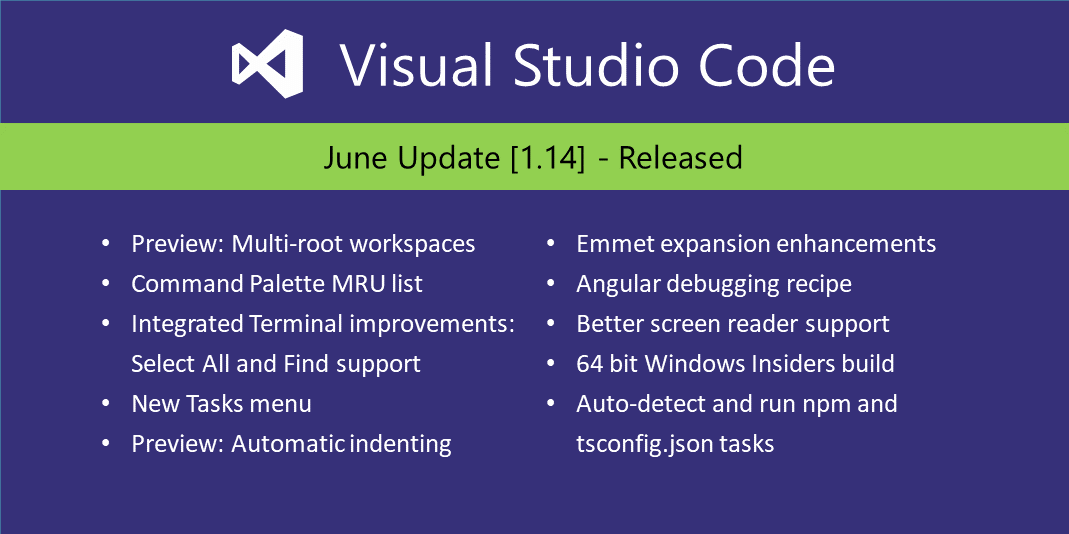
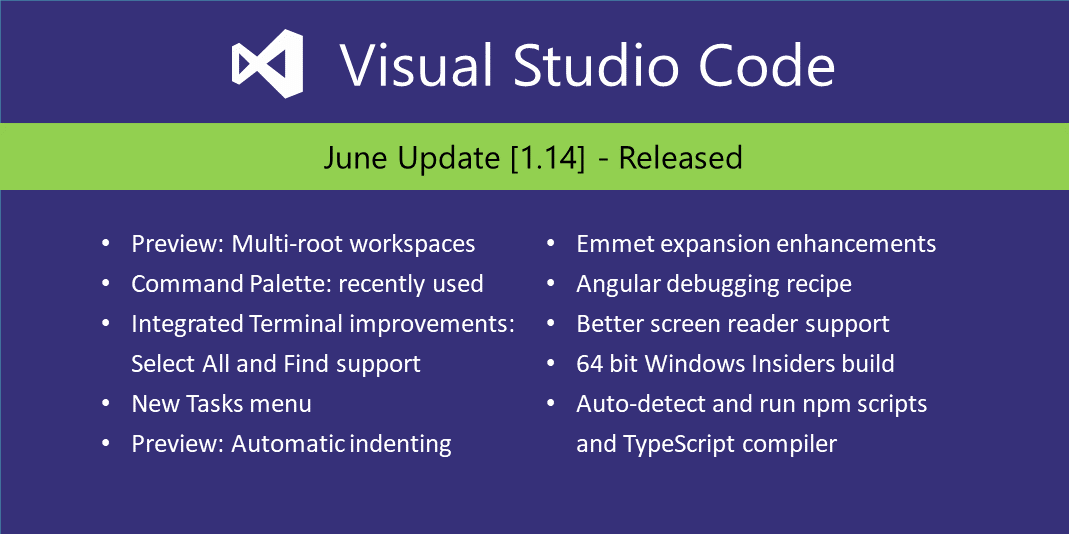
Update 1.14 social image

Changed region(s): [[0.5248, 0.809, 0.7717, 0.8689], [0.3087, 0.5094, 0.463, 0.5693], [0.8026, 0.7191, 0.8644, 0.779]]

diff --git a/docs/editor/tasks.md b/docs/editor/tasks.md
@@ -15,11 +15,11 @@ If you are using Visual Studio Code version 1.13 or earlier, please refer to the
 
 ---
 
-Lots of tools exist to automate tasks like linting, building, packaging, testing or deploying software systems. Examples include [TypeScript Compiler](https://www.typescriptlang.org/), any kind of linters like [ESLint](http://eslint.org/) or [TSLint](https://palantir.github.io/tslint/) as well as build systems like [Make](https://en.wikipedia.org/wiki/Make_software), [Ant](https://ant.apache.org/), [Gulp](http://gulpjs.com/), [Jake](http://jakejs.com/), [Rake](https://ruby.github.io/rake/) and [MSBuild](https://github.com/Microsoft/msbuild).
+Lots of tools exist to automate tasks like linting, building, packaging, testing or deploying software systems. Examples include the[TypeScript Compiler](https://www.typescriptlang.org/), linters like [ESLint](http://eslint.org/) and [TSLint](https://palantir.github.io/tslint/) as well as build systems like [Make](https://en.wikipedia.org/wiki/Make_software), [Ant](https://ant.apache.org/), [Gulp](http://gulpjs.com/), [Rake](https://ruby.github.io/rake/) and [MSBuild](https://github.com/Microsoft/msbuild).
 
 ![VS Code can talk to a variety of external tools](images/tasks/tasks_hero.png)
 
-These tools are mostly run from the command line and automate jobs inside and outside the inner software development loop (edit, compile, test and debug). Given their importance in the development life-cycle, it is very helpful to be able to run them and analyze their results from within VS Code.
+These tools are mostly run from the command line and automate jobs inside and outside the inner software development loop (edit, compile, test, and debug). Given their importance in the development life-cycle, it is very helpful to be able to run tools and analyze their results from within VS Code.
 
 >**Note:** Task support is only available when working on a workspace folder. It is not available when editing single files.
 
@@ -53,9 +53,9 @@ Pressing `kb(workbench.action.tasks.build)` or running **Run Build Task...** fro
 
 ![TypeScript Build Task](images/tasks/typescript-build.png)
 
-Selecting the entry executes the TypeScript compiler and translates the TypeScript file to a JavaScript file. When the compiler has finished there should be a `HelloWorld.js` file. 
+Selecting the entry executes the TypeScript compiler and translates the TypeScript file to a JavaScript file. When the compiler has finished, there should be a `HelloWorld.js` file. 
 
-You can also define the TypeScript build task as the default build task so that it is executed directly when triggering **Run Build Task** (`kb(workbench.action.tasks.build)`). To do so select **Configure Default Build Task** from the global **Tasks** menu. This shows you a picker with the available build tasks. Select the TypeScript one which generates the following `tasks.json` file:
+You can also define the TypeScript build task as the default build task so that it is executed directly when triggering **Run Build Task** (`kb(workbench.action.tasks.build)`). To do so, select **Configure Default Build Task** from the global **Tasks** menu. This shows you a picker with the available build tasks. Select **TypeScript** and VS Code will generate the following `tasks.json` file:
 
 ```json
 {
@@ -75,7 +75,7 @@ You can also define the TypeScript build task as the default build task so that 
 }
 ```
 
-Unlike the `0.1.0` version of the `tasks.json` file, this does not define a new task. It annotates the TypeScript compile tasks contributed by VS Code's TypeScript extension to be the default build task. You can now execute the TypeScript compiler by simply pressing `kb(workbench.action.tasks.build)`.
+Unlike the previous `0.1.0` version of the `tasks.json` file, this does not define a new task. It annotates the TypeScript compile tasks contributed by VS Code's TypeScript extension to be the default build task. You can now execute the TypeScript compiler by simply pressing `kb(workbench.action.tasks.build)`.
 
 ## Task auto-detection
 

diff --git a/release-notes/v1_14.md b/release-notes/v1_14.md
@@ -24,7 +24,7 @@ The release notes are arranged in the following sections related to VS Code focu
 * **[Workbench](#workbench)** - Restore loose files, Quickly switch running window.
 * **[Languages](#languages)** - TypeScript 2.4, Refactoring for JavaScript/TypeScript.
 * **[Debugging](#debugging)** - Simplifications for Node.js debug configurations.
-* **[Tasks](#tasks)** - Auto-detect and customize npm and tsconfig.json tasks to run in VS Code.
+* **[Tasks](#tasks)** - Auto-detect and customize npm scripts and TypeScript compiler to run in VS Code.
 * **[Extension Authoring](#extension-authoring)** - SVG rendering constraint, custom views visibility, new Debug API.
 
 
